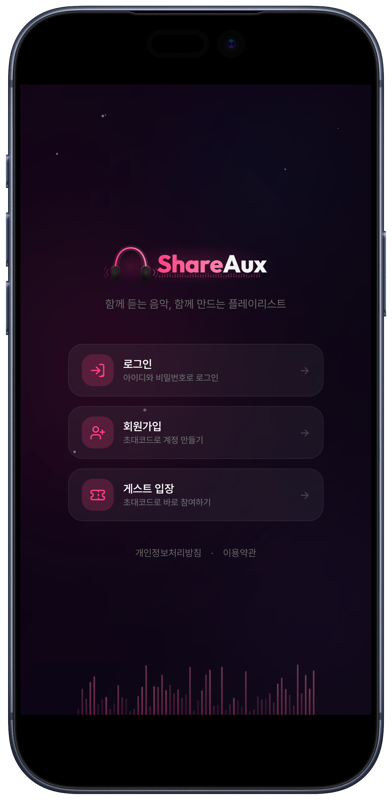
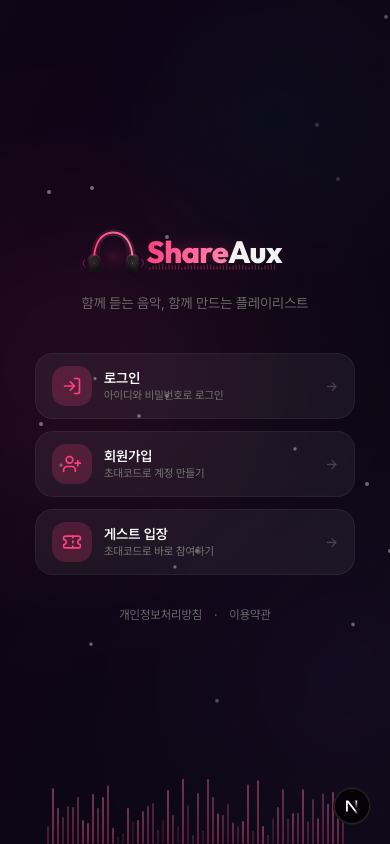
docs: README 스크린샷 업데이트 — 데스크톱 로그인 화면

diff --git a/README.ko.md b/README.ko.md
@@ -5,9 +5,7 @@
 셀프호스팅 실시간 음악 공유 플랫폼. 방을 만들고, 함께 음악을 검색하고, WebSocket 기반 실시간 스트리밍으로 모든 참여자가 같은 순간을 공유합니다. 싱크 가사, 채팅, 리액션까지.
 
 <p align="center">
-  <img src="docs/images/login-mobile.png" alt="로그인 화면" width="280" />
-  &nbsp;&nbsp;&nbsp;&nbsp;
-  <img src="docs/images/room-mobile.png" alt="방 플레이어 화면" width="280" />
+  <img src="docs/images/login-desktop.png" alt="ShareAux" width="720" />
 </p>
 
 ## 주요 기능

diff --git a/README.md b/README.md
@@ -5,9 +5,7 @@
 Self-hosted real-time music sharing platform. Create rooms, search for music together, and stream to all participants via WebSocket — everyone hears the same moment. Synced lyrics, chat, and reactions included.
 
 <p align="center">
-  <img src="docs/images/login-mobile.png" alt="Login" width="280" />
-  &nbsp;&nbsp;&nbsp;&nbsp;
-  <img src="docs/images/room-mobile.png" alt="Room Player" width="280" />
+  <img src="docs/images/login-desktop.png" alt="ShareAux" width="720" />
 </p>
 
 ## Key Features
